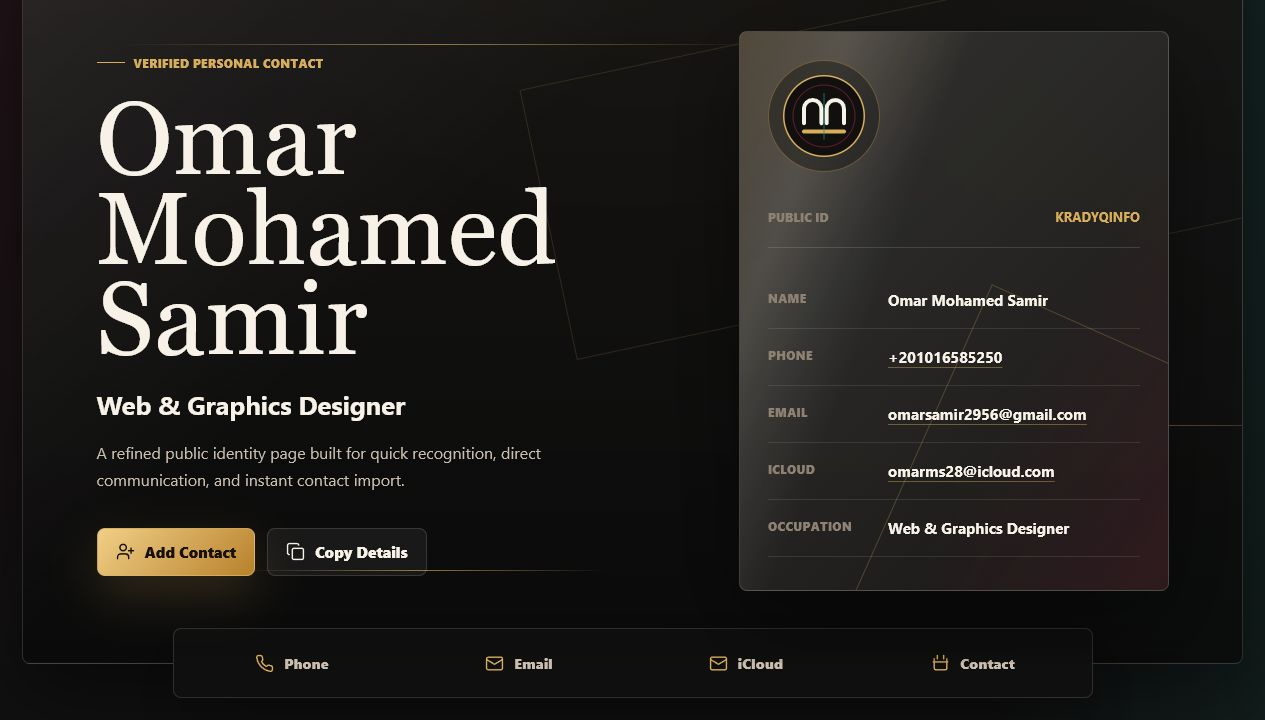
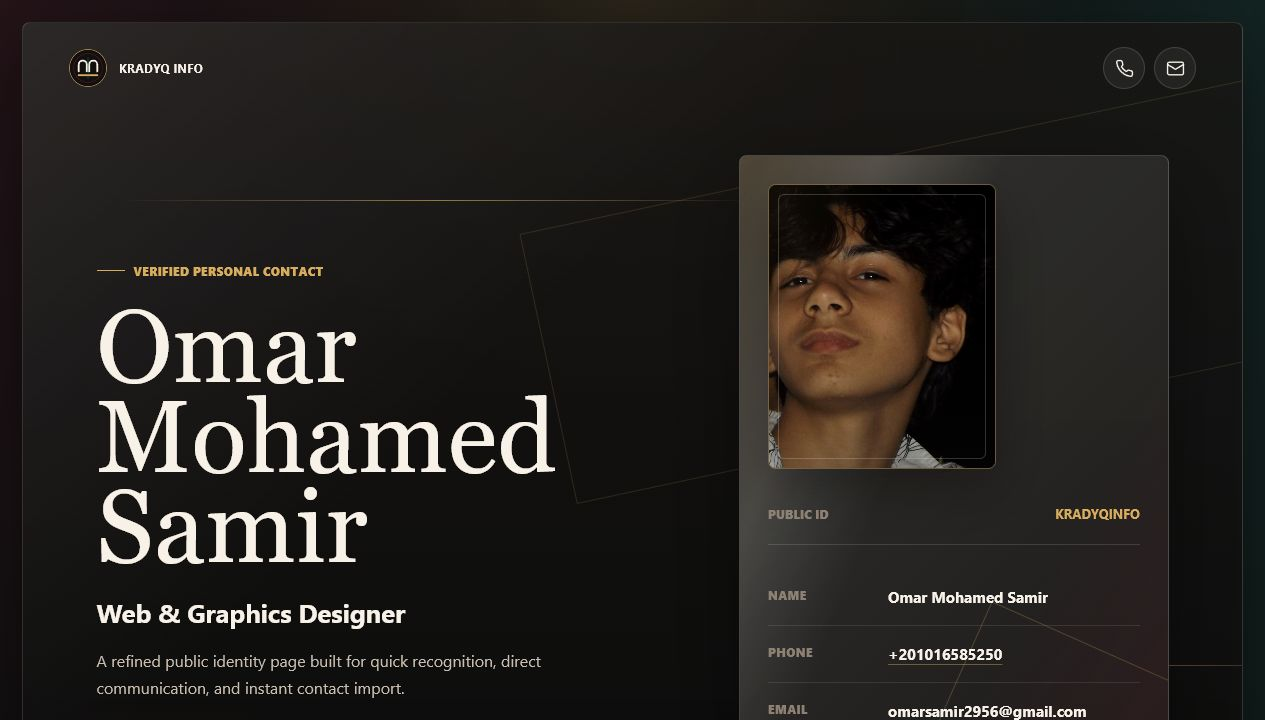
Add files via upload

diff --git a/styles.css b/styles.css
@@ -372,22 +372,54 @@ h1 {
   animation: sheen 6s ease-in-out infinite;
 }
 
-.monogram,
+.profile-photo,
 .card-heading,
 .info-list {
   position: relative;
   z-index: 1;
 }
 
-.monogram {
-  display: grid;
-  width: 112px;
-  height: 112px;
-  place-items: center;
+.profile-photo {
+  width: min(100%, 228px);
+  aspect-ratio: 4 / 5;
   margin-bottom: 36px;
-  border: 1px solid rgba(216, 173, 91, 0.34);
-  border-radius: 50%;
+  overflow: hidden;
+  border: 1px solid rgba(216, 173, 91, 0.42);
+  border-radius: var(--radius);
   background: rgba(16, 16, 16, 0.44);
+  box-shadow: 0 20px 54px rgba(0, 0, 0, 0.34);
+}
+
+.profile-photo::before {
+  position: absolute;
+  inset: 9px;
+  z-index: 2;
+  content: "";
+  border: 1px solid rgba(247, 241, 232, 0.2);
+  border-radius: calc(var(--radius) - 2px);
+  pointer-events: none;
+}
+
+.profile-photo::after {
+  position: absolute;
+  inset: 0;
+  z-index: 1;
+  content: "";
+  background:
+    linear-gradient(180deg, transparent 52%, rgba(16, 16, 16, 0.18)),
+    linear-gradient(120deg, rgba(216, 173, 91, 0.08), transparent 34%);
+  pointer-events: none;
+}
+
+.profile-photo img {
+  display: block;
+  width: 100%;
+  height: 100%;
+  object-fit: cover;
+  object-position: 67% 35%;
+  filter: saturate(0.95) contrast(1.04);
+  transform: scale(1.34);
+  transform-origin: 67% 35%;
 }
 
 .card-heading {
@@ -599,6 +631,10 @@ h1 {
 
   .identity-card {
     padding: 22px;
+  }
+
+  .profile-photo {
+    width: min(100%, 190px);
   }
 
   .info-list div {

diff --git a/index.html b/index.html
@@ -8,6 +8,7 @@
     <title>Omar Mohamed Samir | Identity Contact</title>
     <link rel="stylesheet" href="styles.css">
     <link rel="preload" href="assets/identity-mark.svg" as="image" type="image/svg+xml">
+    <link rel="preload" href="assets/omar-photo.jpeg" as="image" type="image/jpeg">
     <script type="application/ld+json">
       {
         "@context": "https://schema.org",
@@ -68,8 +69,8 @@
 
           <aside class="identity-card" aria-label="Personal information card">
             <div class="card-shine" aria-hidden="true"></div>
-            <div class="monogram" aria-hidden="true">
-              <img src="assets/identity-mark.svg" alt="" width="82" height="82">
+            <div class="profile-photo">
+              <img src="assets/omar-photo.jpeg" alt="Portrait of Omar Mohamed Samir">
             </div>
             <div class="card-heading">
               <span>Public ID</span>
